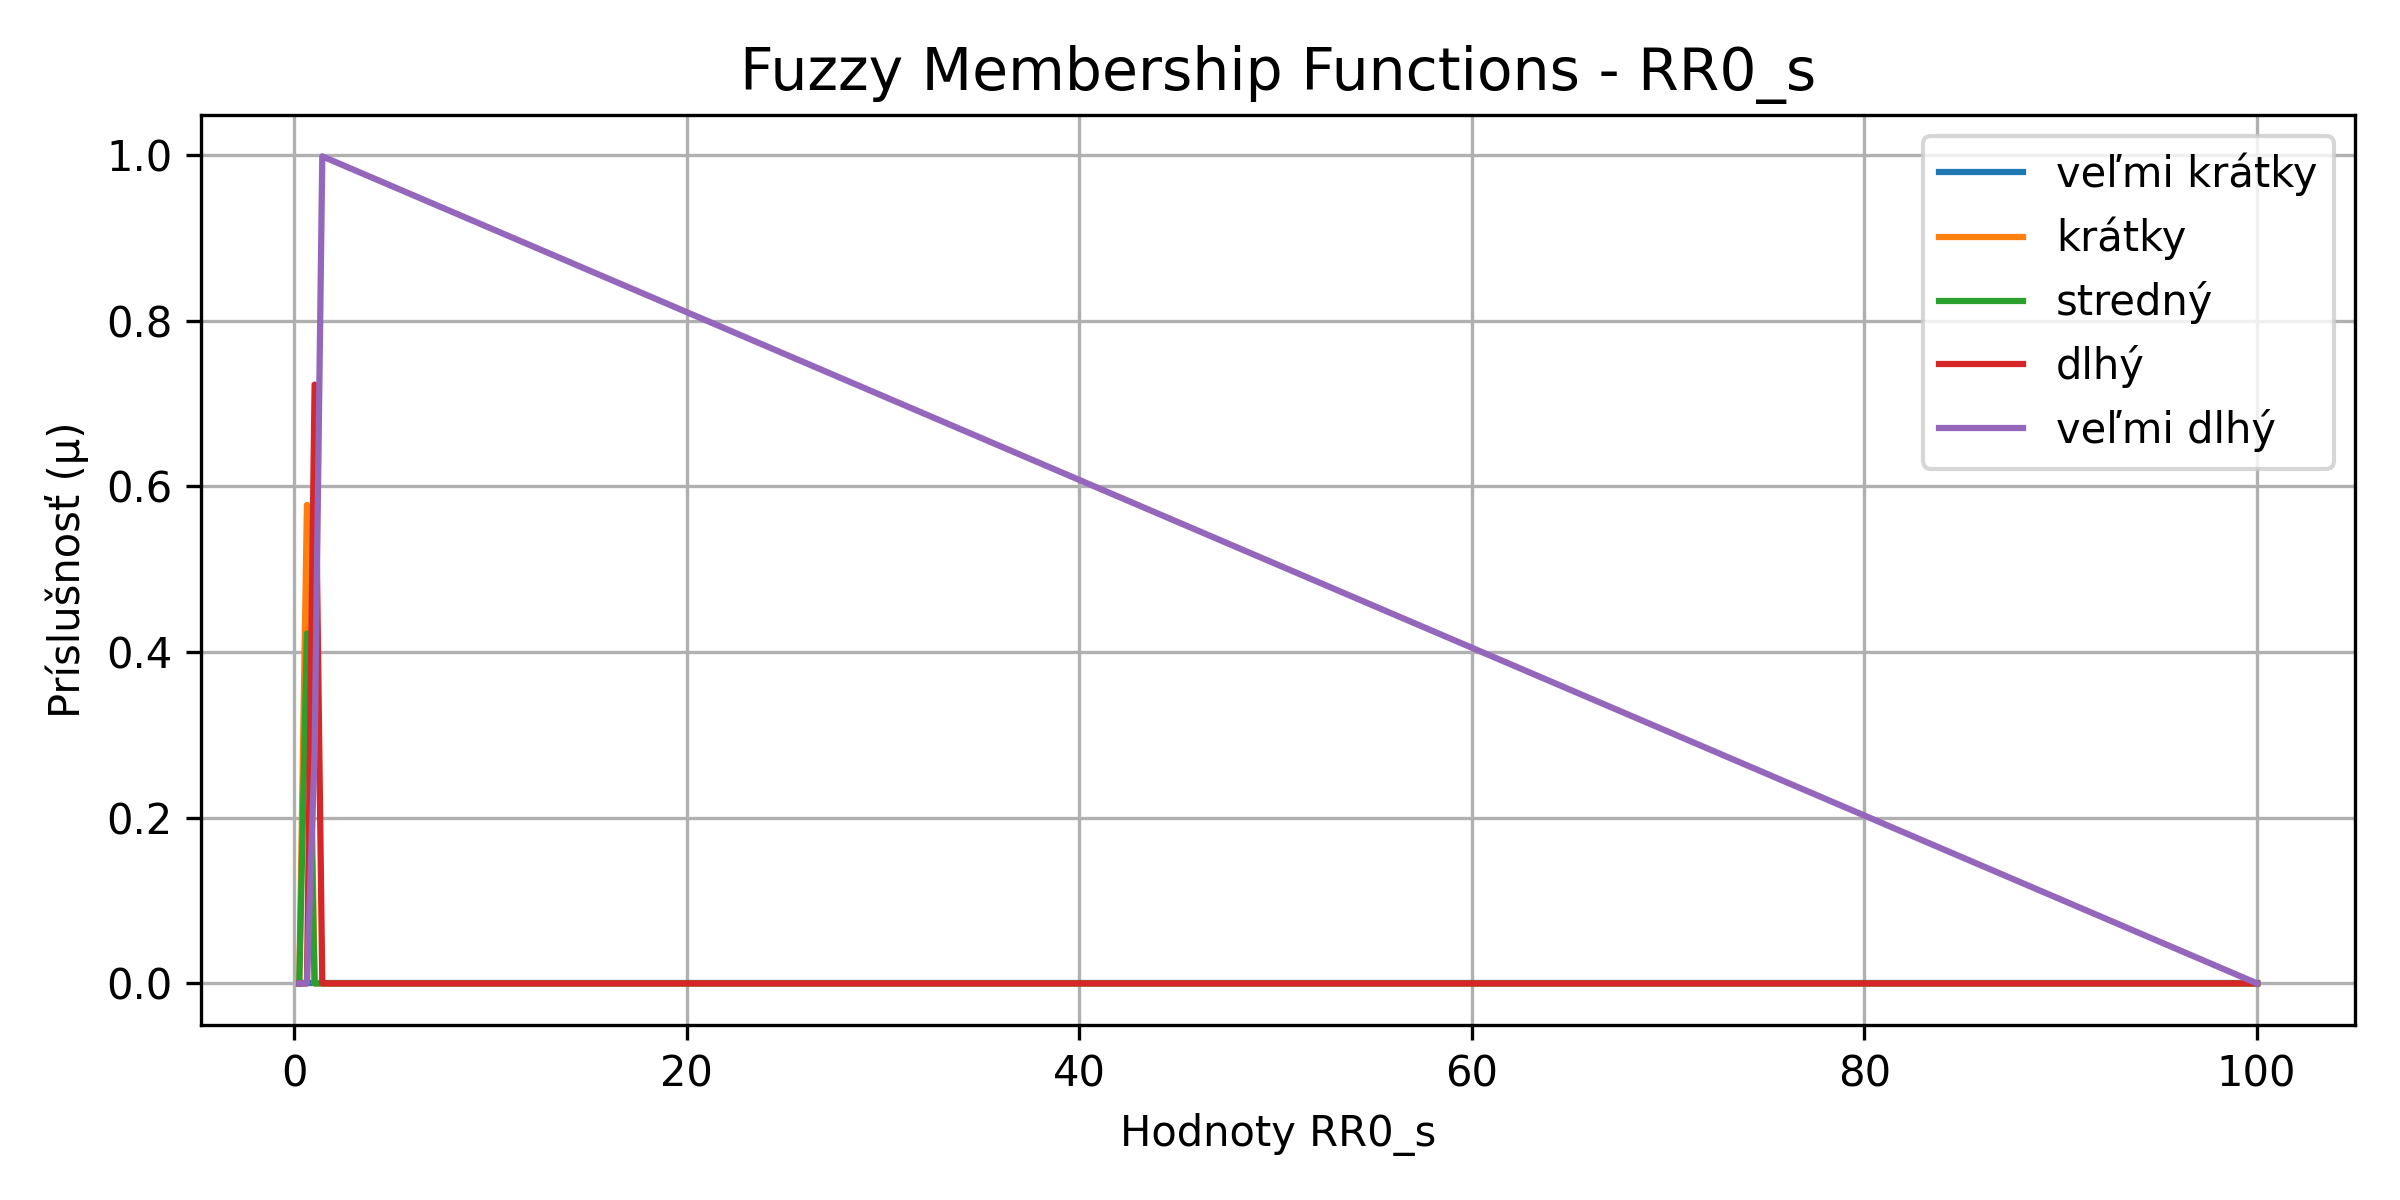
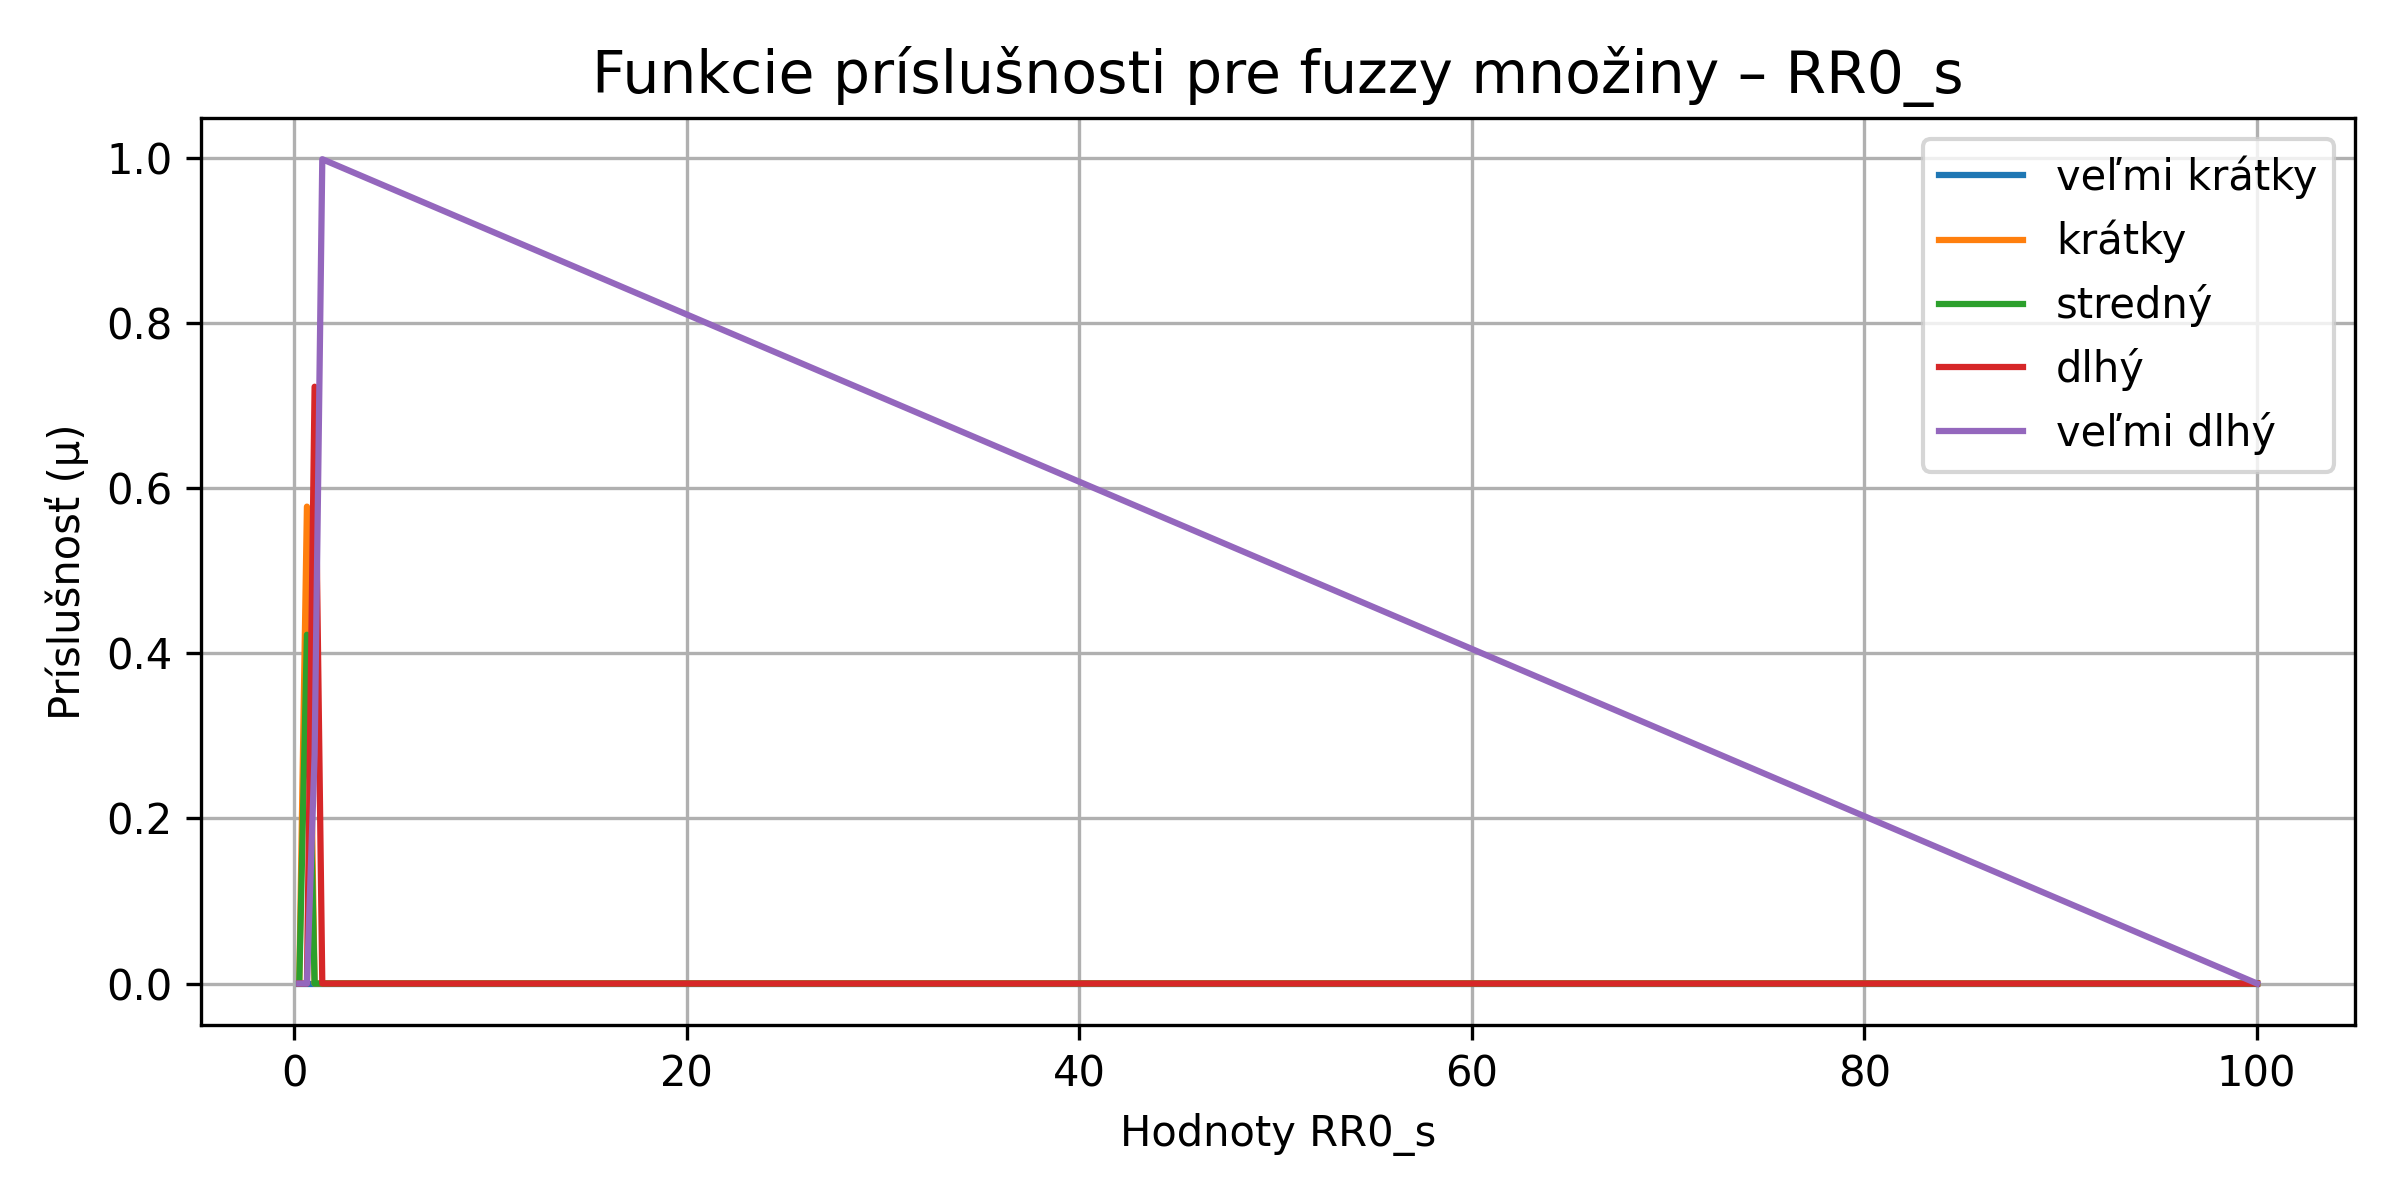
fuzzu klassifikator

diff --git a/src/fuzzy/fuzzy_classifier.py b/src/fuzzy/fuzzy_classifier.py
@@ -521,7 +521,7 @@ def plot_and_save_fuzzy_mfs(fuzzy_mfs, features):
             plt.plot(universe, mf_curve, label=mf_name)
 
         # Popisy a štýl grafu
-        plt.title(f'Fuzzy Membership Functions - {feature}', fontsize=14)
+        plt.title(f'Funkcie príslušnosti pre fuzzy množiny – {feature}', fontsize=14)
         plt.xlabel(f'Hodnoty {feature}')
         plt.ylabel('Príslušnosť (μ)')
         plt.legend(loc='upper right')
